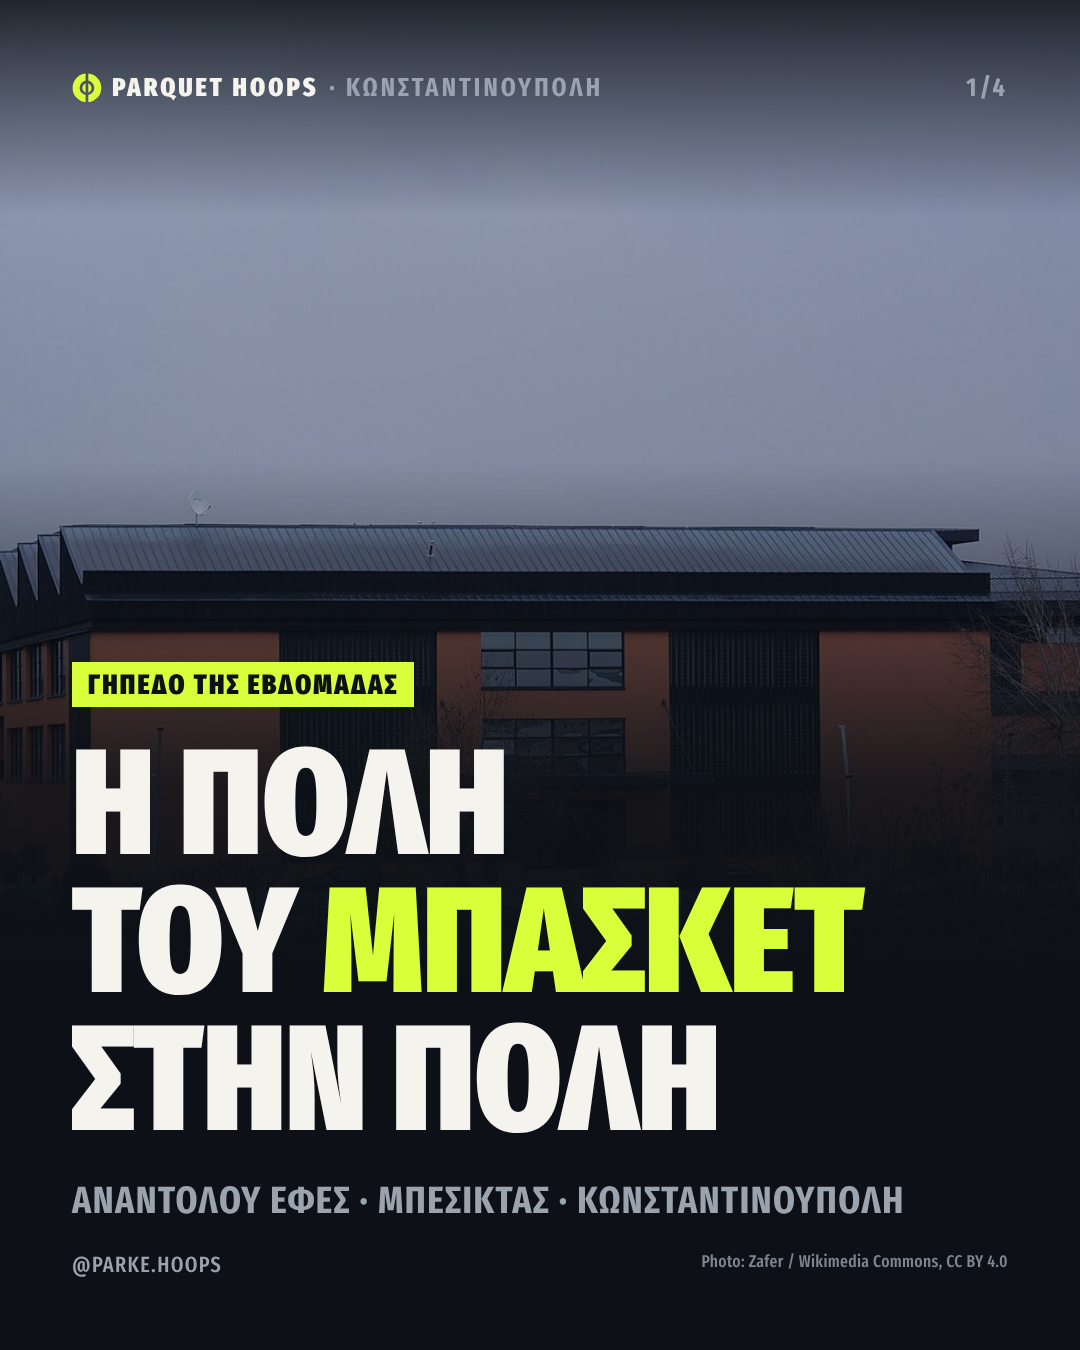
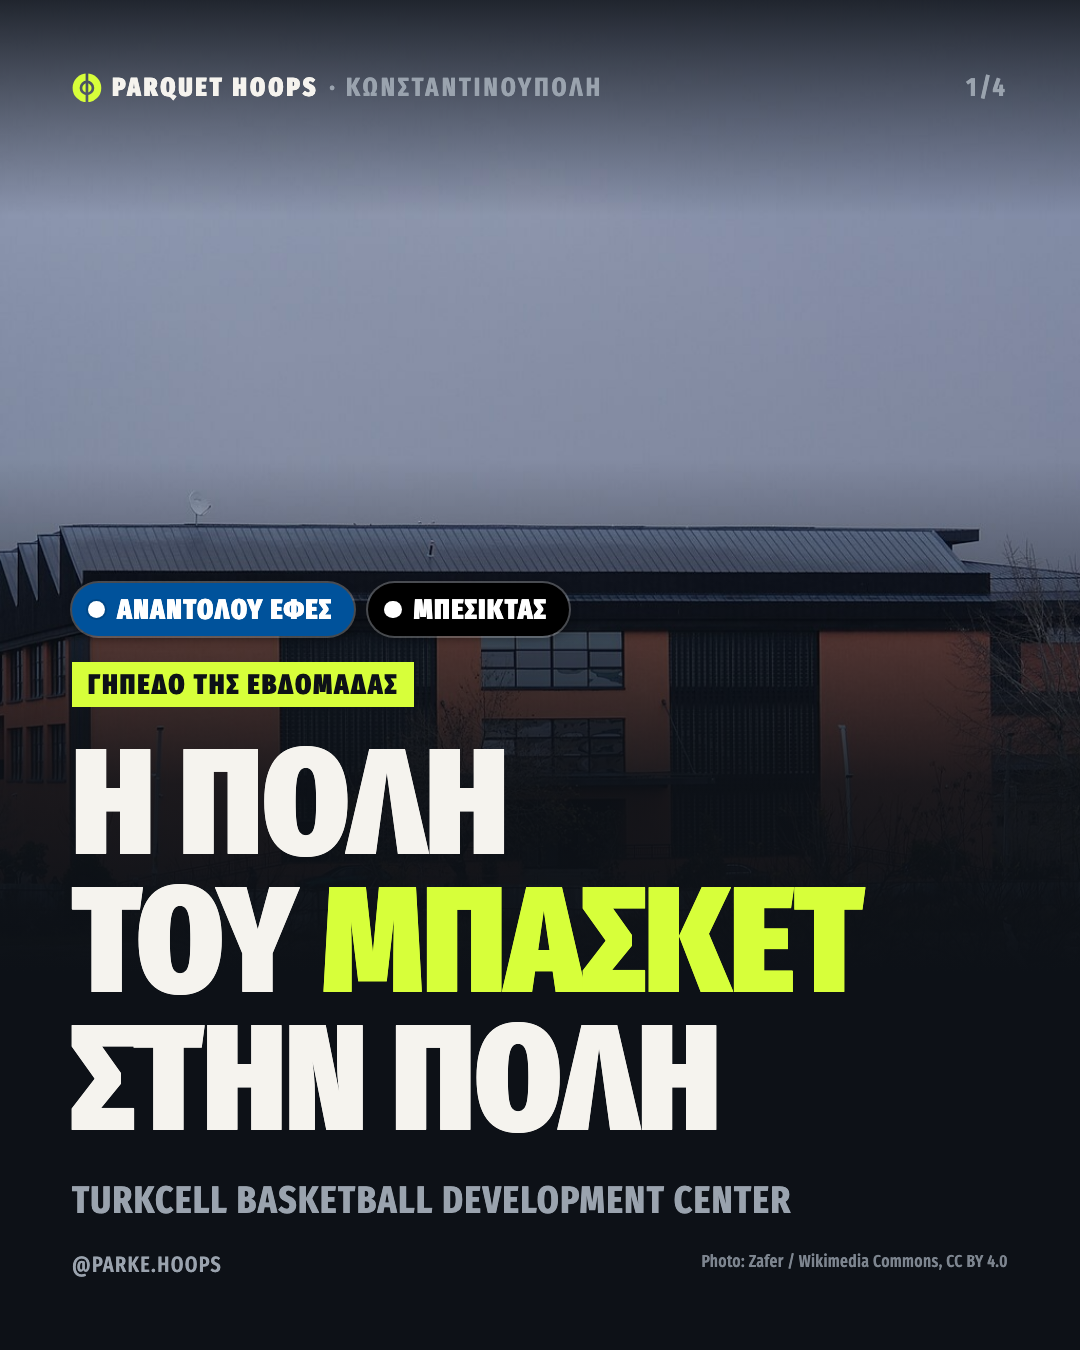
Club badges in our own style; arena slide 1 shows the home clubs
assets/clubs.json holds a colour palette and EN/EL names for all 20
clubs (no crests: logos are trademarks). Hook cards accept "badges":
[club codes]. Turkcell BDC slide 1 now shows Anadolu Efes and Besiktas
badges with the arena name as subtitle.

Changed region(s): [[0.0611, 0.4044, 0.55, 0.5289], [0.0611, 0.8711, 0.8556, 0.9022], [0.3361, 0.6844, 0.3667, 0.7156]]

diff --git a/scripts/render_cards.py b/scripts/render_cards.py
@@ -44,6 +44,7 @@ def find_chrome():
 
 CHROME = find_chrome()
 BRAND = json.loads((ROOT / "brand.json").read_text())
+CLUBS = json.loads((ROOT / "assets" / "clubs.json").read_text())
 FONTS = (ROOT / "assets" / "fonts").as_uri()
 
 CSS = """
@@ -62,6 +63,11 @@ body::before { content: ""; position: absolute; inset: 0; pointer-events: none;
 .brand { display: inline-flex; align-items: center; gap: .4em; }
 .brand svg { width: 1.15em; height: 1.15em; }
 .main { flex: 1; display: flex; flex-direction: column; justify-content: center; position: relative; }
+.badges { display: flex; flex-wrap: wrap; gap: 14px; margin-bottom: 26px; }
+.badge { display: inline-flex; align-items: center; gap: 12px; padding: 10px 22px 10px 16px; border-radius: 999px;
+  font-weight: 900; font-size: %(kick)dpx; letter-spacing: .06em; text-transform: uppercase;
+  box-shadow: 0 0 0 2px #ffffff40, 0 2px 10px #0006; }
+.badge i { width: .62em; height: .62em; border-radius: 50%%; display: block; box-shadow: 0 0 0 2px #0002; }
 .kicker { display: inline-block; align-self: flex-start; background: %(accent)s; color: %(bg)s; font-weight: 900;
   font-size: %(kick)dpx; letter-spacing: .08em; text-transform: uppercase; padding: 6px 16px; margin-bottom: 28px; }
 .title { font-weight: 900; font-size: %(title)dpx; line-height: .92; text-transform: uppercase; }
@@ -111,11 +117,21 @@ def rich(s):
     return "".join(f"<em>{p}</em>" if i % 2 else p for i, p in enumerate(parts))
 
 
-def card_html(card):
+def badges_html(codes, lang):
+    """Club badges in our own style (assets/clubs.json): never crests, which are trademarks."""
+    out = []
+    for code in codes:
+        c = CLUBS[code]
+        out.append(f'<span class="badge" style="background:{c["bg"]};color:{c["fg"]}">'
+                   f'<i style="background:{c["dot"]}"></i>{html.escape(c.get(lang) or c["en"])}</span>')
+    return f'<div class="badges">{"".join(out)}</div>'
+
+
+def card_html(card, lang="en"):
     t = card["type"]
     k = f'<div class="kicker">{rich(card["kicker"])}</div>' if card.get("kicker") else ""
     if t == "hook":
-        inner = f'{k}<div class="title">{rich(card["title"])}</div>' + (
+        inner = (badges_html(card["badges"], lang) if card.get("badges") else "") + f'{k}<div class="title">{rich(card["title"])}</div>' + (
             f'<div class="sub">{rich(card["subtitle"])}</div>' if card.get("subtitle") else "")
     elif t == "score":
         rows = "".join(
@@ -147,7 +163,7 @@ def page(spec, card, fmt, n, total, photo=None):
         credit = f'<span class="credit">{html.escape(photo["credit"])}</span>'
     return f"""<!doctype html><html lang="{spec['lang']}"><head><meta charset="utf-8"><style>{css}</style></head><body class="{"has-photo" if photo else ""}">{bg}
 <div class="top"><span class="brand">{centre_disc(BRAND['colors']['accent'])}<b>{html.escape(BRAND['name'][spec['lang']])}</b> · {html.escape(spec['round_label'])}</span><span>{page_no}</span></div>
-<div class="main">{card_html(card)}</div>
+<div class="main">{card_html(card, spec["lang"])}</div>
 <div class="foot"><span>{html.escape(BRAND['handle'][fmt][spec['lang']])}</span>{credit}</div>
 </body></html>"""
 

diff --git a/CLAUDE.md b/CLAUDE.md
@@ -27,7 +27,7 @@ One post every Sunday about a EuroLeague arena, in `arenas/<season>/<arena-slug>
 - **Pick:** `python3 scripts/arena_facts.py --next` suggests an arena not covered yet that hosts a game in the next 7 days, so the post builds up to that game. `--list` shows every arena and which are done.
 - **Facts:** `python3 scripts/arena_facts.py --get "<ARENA NAME>"` writes `facts.json`: official capacity, address, home teams and upcoming games from the EuroLeague API, opening date from Wikidata, and the Wikipedia article text. **Every fact must come from `facts.json`.** The headline capacity is always the EuroLeague figure (sources often disagree; you may mention, for example, "built for 14,940" if Wikipedia says so). List the URLs under `## Sources` in each post file, and put anything surprising under `## Facts to verify`.
 - **Photos:** one outside and one inside photo from Wikimedia Commons (`commons_photo.py --search "<arena>"`, then `--get <folder> "File:…" --name exterior` and `--name interior`), same license rules as "Photos". Look at the candidates and pick ones where the building or the bowl is clearly visible. If no usable interior exists, drop that slide.
-- **Slides (4):** 1) `hook` with `"photo": "exterior"`, kicker "Arena of the week", a vivid title and the home team and city as subtitle; 2) `list` card with the facts: Capacity, Opened, Home of, This week (the upcoming game); 3) `hook` with `"photo": "interior"`, a line about what it is like inside; 4) `hook` with the single most surprising fact ("Did you know"). The X card (EN only) is a `list` card with the key facts.
+- **Slides (4):** 1) `hook` with `"photo": "exterior"`, `"badges"` listing the home clubs' codes (from `assets/clubs.json`; our own styled badges, never club crests, which are trademarks), kicker "Arena of the week", a vivid title, and the arena's name as subtitle; 2) `list` card with the facts: Capacity, Opened, Home of, This week (the upcoming game); 3) `hook` with `"photo": "interior"`, a line about what it is like inside; 4) `hook` with the single most surprising fact ("Did you know"). The X card (EN only) is a `list` card with the key facts.
 - **Voice:** same vivid rules as everything else: the arena is a character, not a spec sheet. The Greek version uses Greek names (ΣΕΦ, ΟΑΚΑ) and Greek angles.
 - **Posting plan:** a short `README.md` in the folder, with the post time Sunday 18:00 Athens. The `README.md` also marks the arena as covered.
 
